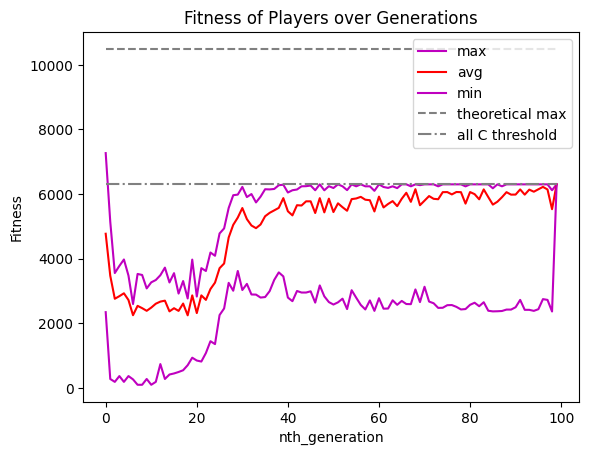
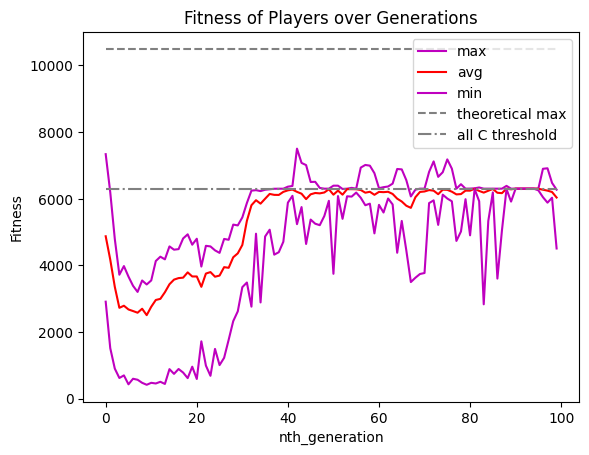
Added code to print out codes of undetermined strategies

diff --git a/src/constants.py b/src/constants.py
@@ -3,17 +3,21 @@ STRATEGY_IDS = {  0: 'Dove',
                   2: 'Hawk',
                   3: 'RTFT', # Reverse TFT
                   4: 'GT', # Grim Trigger 
-                  5: 'LR', # Limited Retaliation
-                  6: 'SGT', # Soft Grim Trigger
-                  7: 'CTFT', # Cautious TFT
-                  8: 'WSLS', # Win-Stay Lose-Shift
+                  # 5: 'LR', # Limited Retaliation {1, 2, 3, 5, 6, 7}
+                  # 6: 'SGT', # Soft Grim Trigger {1, 3, 4, 5, 6, 7}
+                  # 7: 'CTFT', # Cautious TFT {0, 1, 3, 5, 7}
+                  # 8: 'WSLS', # Win-Stay Lose-Shift {1, 2, 3, 4, 5}
+                  5: '{5,7}', # Unknown
+                  6: '{4,5,6,7}', # Unknown
+                  7: '{0,2,3,4,6,7}', # Unknown
+                  8: '{0,4,5,6,7}',
                   9: 'Undetermined'}
 
 STRATEGY_CODES = { 1: [set(), {1}, {0, 1}, {0}], 
                    2: [set(), {1, 3}, {0, 1, 2, 3}, {0, 2}, {1, 2, 3}],
                    3: [set(), {1, 3, 5, 7}, {0, 1, 2, 3, 4, 5, 6, 7}, 
-                       {0, 2, 4, 6}, {1, 2, 3, 4, 5, 6, 7}, {1, 2, 3, 5, 6, 7}, 
-                       {1, 3, 4, 5, 6, 7}, {0, 1, 3, 5, 7}, {1, 2, 3, 4, 5}]}
+                       {0, 2, 4, 6}, {1, 2, 3, 4, 5, 6, 7}, {5, 7},
+                       {4, 5, 6, 7}, {0, 2, 3, 4, 6, 7},{0, 4, 5, 6, 7}]}
 
 MAX_MEMORY_CAPACITY = 3
 

diff --git a/main.py b/main.py
@@ -1,7 +1,7 @@
 # Generic imports
 import sys
 import os
-import numpy as np
+from collections import Counter
 
 # Sets correct path for imports
 script_directory = os.path.dirname(os.path.abspath(sys.argv[0]))
@@ -17,7 +17,7 @@ if __name__ == '__main__':
     # Set simulation parameters
     n_games = 30
     n_matchups = 70
-    n_generations = 100
+    n_generations = 200
     n_players = 100
 
     # Set simulation hyperparameters
@@ -37,3 +37,10 @@ if __name__ == '__main__':
                       memory_capacity=memory_capacity)
 
     env.run(verbose=False)
+
+    # Used printing out the codes of the undetermined strategies
+
+    # unknown = env.detector.undetermined_strategies
+    # strategy_count = Counter(frozenset(s) for s in unknown)
+    # print(strategy_count)
+

diff --git a/src/strategy_detector.py b/src/strategy_detector.py
@@ -33,6 +33,7 @@ class StrategyDetector:
 	def __init__(self):
 		self.player_strategy_code = None
 		self.strategy = self.set_strategy()
+		self.undetermined_strategies = []
 
 	def set_strategy(self)->dict[int, np.ndarray]:
 		"""Constructs a dictionary of all possible input combinations for each memory capacity.
@@ -108,4 +109,6 @@ class StrategyDetector:
 		for strategy_id, code in enumerate(strategy_codes):
 			if self.player_strategy_code == code:
 				return strategy_id
+		# Record undetermined strategies
+		self.undetermined_strategies.append(self.player_strategy_code)
 		return list(STRATEGY_IDS.keys())[-1]
